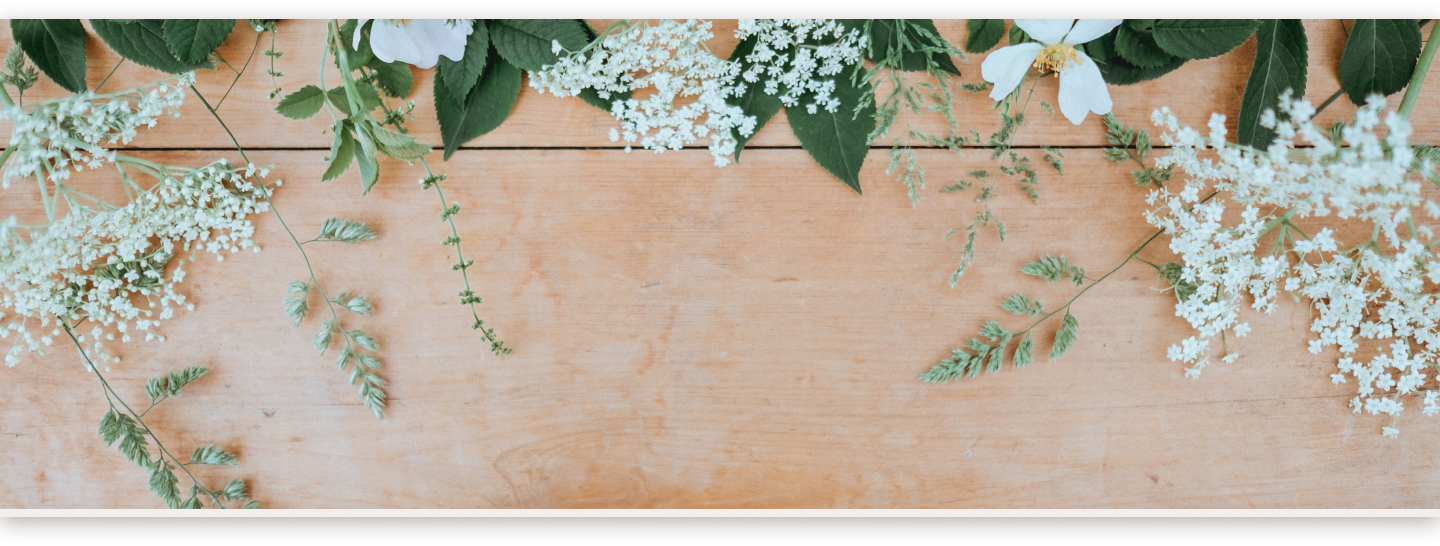
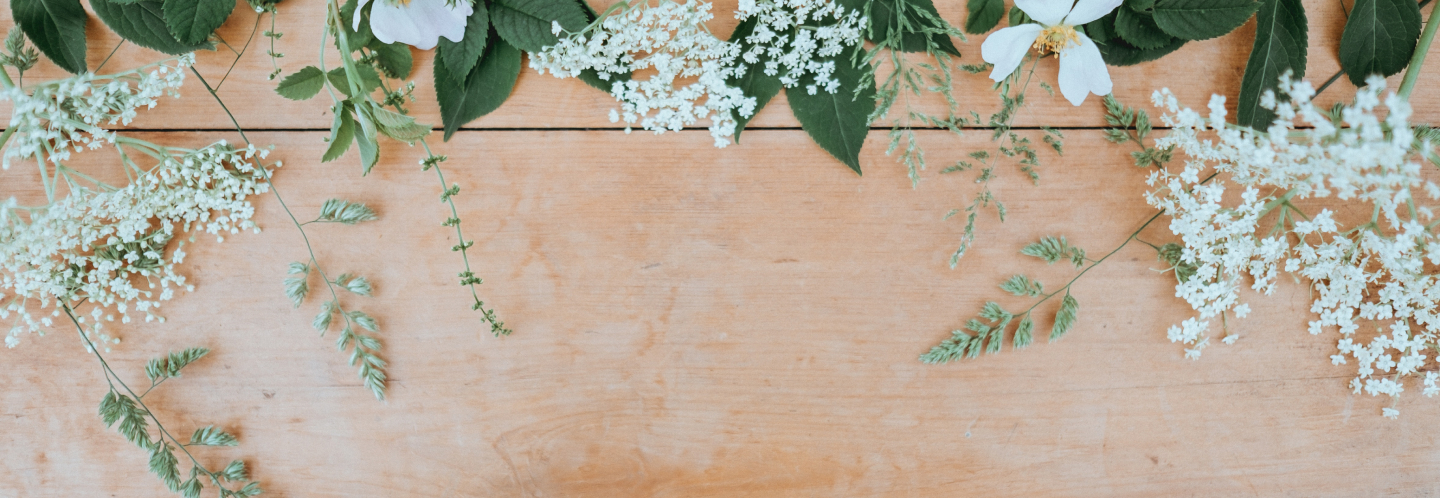
header

diff --git a/style.css b/style.css
@@ -7,4 +7,4 @@ Author URI: http://www.marceloag.cl
 Version: 1.2
 */
 
-/*! tailwindcss v3.3.5 | MIT License | https://tailwindcss.com*/*,:after,:before{box-sizing:border-box;border:0 solid #e5e7eb}:after,:before{--tw-content:""}html{line-height:1.5;-webkit-text-size-adjust:100%;-moz-tab-size:4;-o-tab-size:4;tab-size:4;font-family:ui-sans-serif,system-ui,-apple-system,BlinkMacSystemFont,Segoe UI,Roboto,Helvetica Neue,Arial,Noto Sans,sans-serif,Apple Color Emoji,Segoe UI Emoji,Segoe UI Symbol,Noto Color Emoji;font-feature-settings:normal;font-variation-settings:normal}body{margin:0;line-height:inherit}hr{height:0;color:inherit;border-top-width:1px}abbr:where([title]){-webkit-text-decoration:underline dotted;text-decoration:underline dotted}h1,h2,h3,h4,h5,h6{font-size:inherit;font-weight:inherit}a{color:inherit;text-decoration:inherit}b,strong{font-weight:bolder}code,kbd,pre,samp{font-family:ui-monospace,SFMono-Regular,Menlo,Monaco,Consolas,Liberation Mono,Courier New,monospace;font-size:1em}small{font-size:80%}sub,sup{font-size:75%;line-height:0;position:relative;vertical-align:initial}sub{bottom:-.25em}sup{top:-.5em}table{text-indent:0;border-color:inherit;border-collapse:collapse}button,input,optgroup,select,textarea{font-family:inherit;font-feature-settings:inherit;font-variation-settings:inherit;font-size:100%;font-weight:inherit;line-height:inherit;color:inherit;margin:0;padding:0}button,select{text-transform:none}[type=button],[type=reset],[type=submit],button{-webkit-appearance:button;background-color:initial;background-image:none}:-moz-focusring{outline:auto}:-moz-ui-invalid{box-shadow:none}progress{vertical-align:initial}::-webkit-inner-spin-button,::-webkit-outer-spin-button{height:auto}[type=search]{-webkit-appearance:textfield;outline-offset:-2px}::-webkit-search-decoration{-webkit-appearance:none}::-webkit-file-upload-button{-webkit-appearance:button;font:inherit}summary{display:list-item}blockquote,dd,dl,figure,h1,h2,h3,h4,h5,h6,hr,p,pre{margin:0}fieldset{margin:0}fieldset,legend{padding:0}menu,ol,ul{list-style:none;margin:0;padding:0}dialog{padding:0}textarea{resize:vertical}input::-moz-placeholder,textarea::-moz-placeholder{opacity:1;color:#9ca3af}input::placeholder,textarea::placeholder{opacity:1;color:#9ca3af}[role=button],button{cursor:pointer}:disabled{cursor:default}audio,canvas,embed,iframe,img,object,svg,video{display:block;vertical-align:middle}img,video{max-width:100%;height:auto}[hidden]{display:none}*,::backdrop,:after,:before{--tw-border-spacing-x:0;--tw-border-spacing-y:0;--tw-translate-x:0;--tw-translate-y:0;--tw-rotate:0;--tw-skew-x:0;--tw-skew-y:0;--tw-scale-x:1;--tw-scale-y:1;--tw-pan-x: ;--tw-pan-y: ;--tw-pinch-zoom: ;--tw-scroll-snap-strictness:proximity;--tw-gradient-from-position: ;--tw-gradient-via-position: ;--tw-gradient-to-position: ;--tw-ordinal: ;--tw-slashed-zero: ;--tw-numeric-figure: ;--tw-numeric-spacing: ;--tw-numeric-fraction: ;--tw-ring-inset: ;--tw-ring-offset-width:0px;--tw-ring-offset-color:#fff;--tw-ring-color:#3b82f680;--tw-ring-offset-shadow:0 0 #0000;--tw-ring-shadow:0 0 #0000;--tw-shadow:0 0 #0000;--tw-shadow-colored:0 0 #0000;--tw-blur: ;--tw-brightness: ;--tw-contrast: ;--tw-grayscale: ;--tw-hue-rotate: ;--tw-invert: ;--tw-saturate: ;--tw-sepia: ;--tw-drop-shadow: ;--tw-backdrop-blur: ;--tw-backdrop-brightness: ;--tw-backdrop-contrast: ;--tw-backdrop-grayscale: ;--tw-backdrop-hue-rotate: ;--tw-backdrop-invert: ;--tw-backdrop-opacity: ;--tw-backdrop-saturate: ;--tw-backdrop-sepia: }.collapse{visibility:collapse}.relative{position:relative}.col-span-2{grid-column:span 2/span 2}.block{display:block}.flex{display:flex}.grid{display:grid}.h-40{height:10rem}.w-full{width:100%}.flex-1{flex:1 1 0%}.grid-cols-3{grid-template-columns:repeat(3,minmax(0,1fr))}.flex-row{flex-direction:row}.items-center{align-items:center}.justify-center{justify-content:center}.justify-between{justify-content:space-between}.justify-around{justify-content:space-around}.gap-4{gap:1rem}.bg-black{--tw-bg-opacity:1;background-color:rgb(0 0 0/var(--tw-bg-opacity))}.bg-indigo-300{--tw-bg-opacity:1;background-color:rgb(165 180 252/var(--tw-bg-opacity))}.bg-white{--tw-bg-opacity:1;background-color:rgb(255 255 255/var(--tw-bg-opacity))}.bg-amber-100{--tw-bg-opacity:1;background-color:rgb(254 243 199/var(--tw-bg-opacity))}.bg-\[\#F2EEEE\]{--tw-bg-opacity:1;background-color:rgb(242 238 238/var(--tw-bg-opacity))}.bg-\[url\(\'\.\/img\/bgtexture\.jpg\'\)\]{background-image:url(img/bgtexture.jpg)}.bg-cover{background-size:cover}.object-contain{-o-object-fit:contain;object-fit:contain}.object-fill{-o-object-fit:fill;object-fit:fill}.p-10{padding:2.5rem}.px-10{padding-left:2.5rem;padding-right:2.5rem}.py-6{padding-top:1.5rem;padding-bottom:1.5rem}.py-4{padding-top:1rem;padding-bottom:1rem}.text-center{text-align:center}.shadow-lg{--tw-shadow:0 10px 15px -3px #0000001a,0 4px 6px -4px #0000001a;--tw-shadow-colored:0 10px 15px -3px var(--tw-shadow-color),0 4px 6px -4px var(--tw-shadow-color);box-shadow:var(--tw-ring-offset-shadow,0 0 #0000),var(--tw-ring-shadow,0 0 #0000),var(--tw-shadow)}.shadow-slate-600{--tw-shadow-color:#475569;--tw-shadow:var(--tw-shadow-colored)}
+/*! tailwindcss v3.3.5 | MIT License | https://tailwindcss.com*/*,:after,:before{box-sizing:border-box;border:0 solid #e5e7eb}:after,:before{--tw-content:""}html{line-height:1.5;-webkit-text-size-adjust:100%;-moz-tab-size:4;-o-tab-size:4;tab-size:4;font-family:ui-sans-serif,system-ui,-apple-system,BlinkMacSystemFont,Segoe UI,Roboto,Helvetica Neue,Arial,Noto Sans,sans-serif,Apple Color Emoji,Segoe UI Emoji,Segoe UI Symbol,Noto Color Emoji;font-feature-settings:normal;font-variation-settings:normal}body{margin:0;line-height:inherit}hr{height:0;color:inherit;border-top-width:1px}abbr:where([title]){-webkit-text-decoration:underline dotted;text-decoration:underline dotted}h1,h2,h3,h4,h5,h6{font-size:inherit;font-weight:inherit}a{color:inherit;text-decoration:inherit}b,strong{font-weight:bolder}code,kbd,pre,samp{font-family:ui-monospace,SFMono-Regular,Menlo,Monaco,Consolas,Liberation Mono,Courier New,monospace;font-size:1em}small{font-size:80%}sub,sup{font-size:75%;line-height:0;position:relative;vertical-align:initial}sub{bottom:-.25em}sup{top:-.5em}table{text-indent:0;border-color:inherit;border-collapse:collapse}button,input,optgroup,select,textarea{font-family:inherit;font-feature-settings:inherit;font-variation-settings:inherit;font-size:100%;font-weight:inherit;line-height:inherit;color:inherit;margin:0;padding:0}button,select{text-transform:none}[type=button],[type=reset],[type=submit],button{-webkit-appearance:button;background-color:initial;background-image:none}:-moz-focusring{outline:auto}:-moz-ui-invalid{box-shadow:none}progress{vertical-align:initial}::-webkit-inner-spin-button,::-webkit-outer-spin-button{height:auto}[type=search]{-webkit-appearance:textfield;outline-offset:-2px}::-webkit-search-decoration{-webkit-appearance:none}::-webkit-file-upload-button{-webkit-appearance:button;font:inherit}summary{display:list-item}blockquote,dd,dl,figure,h1,h2,h3,h4,h5,h6,hr,p,pre{margin:0}fieldset{margin:0}fieldset,legend{padding:0}menu,ol,ul{list-style:none;margin:0;padding:0}dialog{padding:0}textarea{resize:vertical}input::-moz-placeholder,textarea::-moz-placeholder{opacity:1;color:#9ca3af}input::placeholder,textarea::placeholder{opacity:1;color:#9ca3af}[role=button],button{cursor:pointer}:disabled{cursor:default}audio,canvas,embed,iframe,img,object,svg,video{display:block;vertical-align:middle}img,video{max-width:100%;height:auto}[hidden]{display:none}*,::backdrop,:after,:before{--tw-border-spacing-x:0;--tw-border-spacing-y:0;--tw-translate-x:0;--tw-translate-y:0;--tw-rotate:0;--tw-skew-x:0;--tw-skew-y:0;--tw-scale-x:1;--tw-scale-y:1;--tw-pan-x: ;--tw-pan-y: ;--tw-pinch-zoom: ;--tw-scroll-snap-strictness:proximity;--tw-gradient-from-position: ;--tw-gradient-via-position: ;--tw-gradient-to-position: ;--tw-ordinal: ;--tw-slashed-zero: ;--tw-numeric-figure: ;--tw-numeric-spacing: ;--tw-numeric-fraction: ;--tw-ring-inset: ;--tw-ring-offset-width:0px;--tw-ring-offset-color:#fff;--tw-ring-color:#3b82f680;--tw-ring-offset-shadow:0 0 #0000;--tw-ring-shadow:0 0 #0000;--tw-shadow:0 0 #0000;--tw-shadow-colored:0 0 #0000;--tw-blur: ;--tw-brightness: ;--tw-contrast: ;--tw-grayscale: ;--tw-hue-rotate: ;--tw-invert: ;--tw-saturate: ;--tw-sepia: ;--tw-drop-shadow: ;--tw-backdrop-blur: ;--tw-backdrop-brightness: ;--tw-backdrop-contrast: ;--tw-backdrop-grayscale: ;--tw-backdrop-hue-rotate: ;--tw-backdrop-invert: ;--tw-backdrop-opacity: ;--tw-backdrop-saturate: ;--tw-backdrop-sepia: }.collapse{visibility:collapse}.relative{position:relative}.col-span-2{grid-column:span 2/span 2}.block{display:block}.flex{display:flex}.grid{display:grid}.h-40{height:10rem}.w-full{width:100%}.flex-1{flex:1 1 0%}.grid-cols-3{grid-template-columns:repeat(3,minmax(0,1fr))}.flex-row{flex-direction:row}.items-center{align-items:center}.justify-center{justify-content:center}.justify-between{justify-content:space-between}.justify-around{justify-content:space-around}.gap-4{gap:1rem}.bg-black{--tw-bg-opacity:1;background-color:rgb(0 0 0/var(--tw-bg-opacity))}.bg-indigo-300{--tw-bg-opacity:1;background-color:rgb(165 180 252/var(--tw-bg-opacity))}.bg-white{--tw-bg-opacity:1;background-color:rgb(255 255 255/var(--tw-bg-opacity))}.bg-amber-100{--tw-bg-opacity:1;background-color:rgb(254 243 199/var(--tw-bg-opacity))}.bg-\[\#F2EEEE\]{--tw-bg-opacity:1;background-color:rgb(242 238 238/var(--tw-bg-opacity))}.bg-\[url\(\'\.\/img\/bgtexture\.jpg\'\)\]{background-image:url(img/bgtexture.jpg)}.bg-cover{background-size:cover}.object-contain{-o-object-fit:contain;object-fit:contain}.object-cover{-o-object-fit:cover;object-fit:cover}.object-fill{-o-object-fit:fill;object-fit:fill}.p-10{padding:2.5rem}.px-10{padding-left:2.5rem;padding-right:2.5rem}.py-6{padding-top:1.5rem;padding-bottom:1.5rem}.py-4{padding-top:1rem;padding-bottom:1rem}.text-center{text-align:center}.shadow-lg{--tw-shadow:0 10px 15px -3px #0000001a,0 4px 6px -4px #0000001a;--tw-shadow-colored:0 10px 15px -3px var(--tw-shadow-color),0 4px 6px -4px var(--tw-shadow-color);box-shadow:var(--tw-ring-offset-shadow,0 0 #0000),var(--tw-ring-shadow,0 0 #0000),var(--tw-shadow)}.shadow-slate-600{--tw-shadow-color:#475569;--tw-shadow:var(--tw-shadow-colored)}

diff --git a/index.php b/index.php
@@ -1,5 +1,5 @@
 <?php get_header(); ?>
     <section class="w-full relative block shadow-lg shadow-slate-600" id="hero">
-      <img src="<?php bloginfo("template_directory");?>/img/hero.jpg" alt="Flores" class="object-fill">
+      <img src="<?php bloginfo("template_directory");?>/img/hero.jpg" alt="Flores" class="object-cover">
     </section>
 <?php get_footer(); ?>
